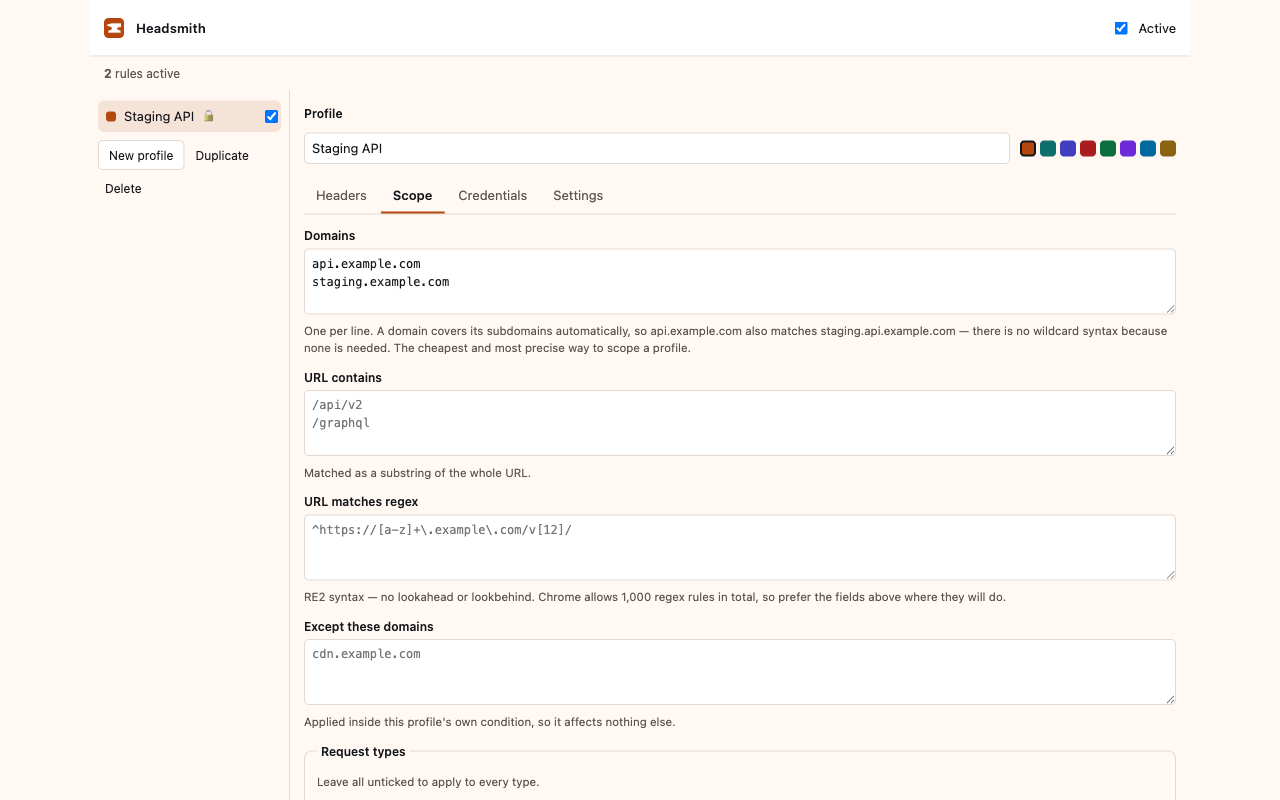
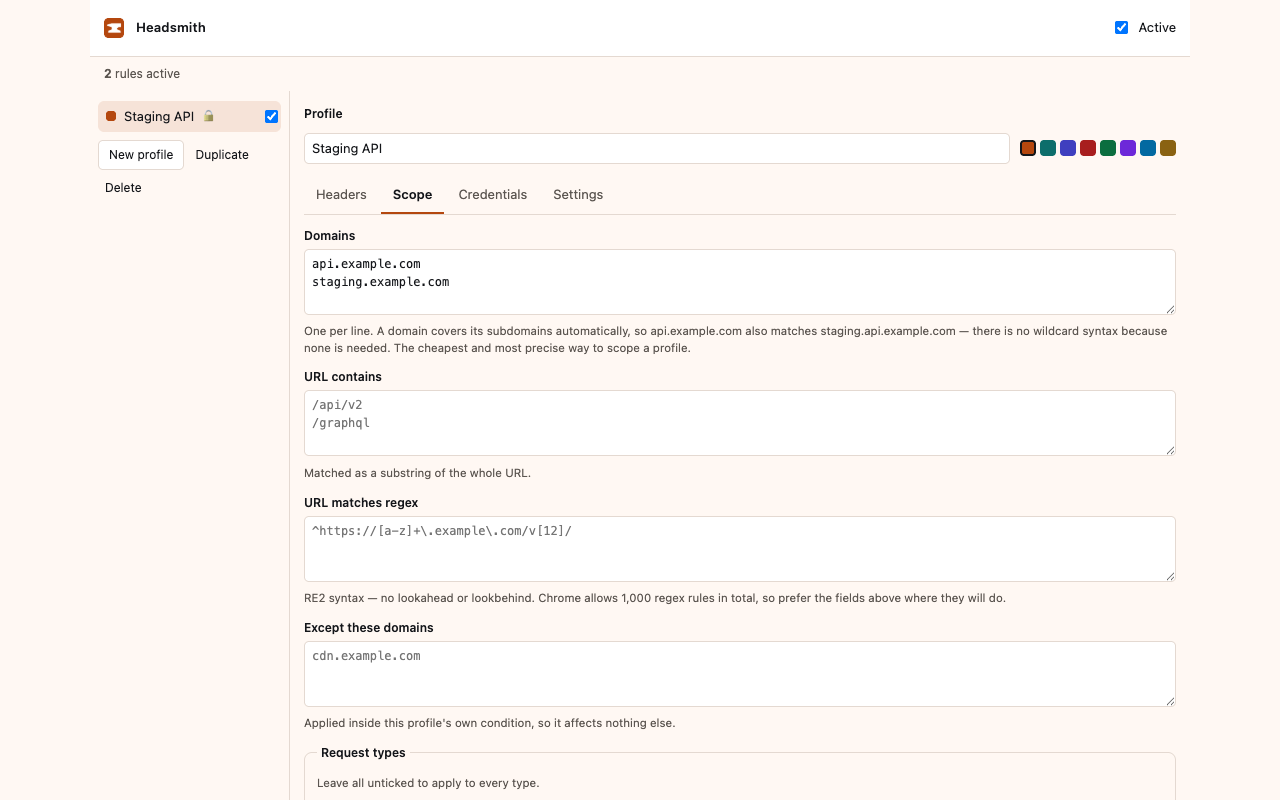
Bring the docs and screenshots up to the current permission model
The screenshots were from 1.1.0, before the site-access panel existed, and
the internal docs said nothing about the permission model at all -- CLAUDE.md
had no mention of it, and CONTRIBUTING did not explain why the e2e suite
needs a second build.

Screenshots are regenerated and one is added for Settings, since asking for
no sites at install and granting per domain is the strongest thing about this
extension and the listing should show where that lives rather than only
assert it.

They are now captured against a copy of the build with the demo hosts
already granted. Host access is requested from a user gesture, which a script
cannot supply, so a run against the real build put "waiting on your
permission" across every shot and made the extension look broken to anyone
browsing the listing. Only the manifest differs; every pixel is the real UI
in the state a user reaches by clicking Allow.

PUBLISHING gains a section on what actually distinguishes this and how to say
it -- including why the listing contrasts *approaches* rather than naming
another product. Comparative claims about named competitors invite reviewer
scrutiny, and the contrast does not need them: "asks for no sites at install"
is stronger and more checkable than "unlike X". The listing copy now leads
with the permission model, which it did not mention at all.

Also corrects a rejection-table row still advising how to argue for
<all_urls>, which is no longer requested.

diff --git a/PUBLISHING.md b/PUBLISHING.md
@@ -109,6 +109,44 @@ manifest and reports validation errors before you go further.
 - [ ] `SECURITY.md` changelog updated if permissions moved
 - [ ] The listing text below still matches what the extension does
 
+## What actually distinguishes this, and how to say it
+
+Three properties are genuinely unusual for a header extension. They are worth
+leading with, because they are the reason to pick this one and they are all
+checkable.
+
+**1. No host access at install.** Most extensions in this category request
+`<all_urls>` up front, so installing one shows *"Read and change all your data
+on all websites"* before it has done anything. Headsmith requests nothing.
+Access is asked for one domain at a time, when a profile names one, and the
+prompt says that domain. Site access is listed in the extension's own settings
+and can be withdrawn there.
+
+**2. It cannot observe traffic, structurally.** Built on
+`declarativeNetRequest` alone: rules are handed to the browser and no extension
+code runs when a request is made. The same feature built on blocking
+`webRequest` receives every request and response header on every permitted site
+and must be trusted not to act on them. This is a property of the API, not a
+promise about conduct — which is why it can be stated so flatly.
+
+**3. Releases are reproducible and attested.** The Web Store signs the `.crx`
+itself from an uploaded `.zip`, so a store signature says the bytes came from a
+developer account and nothing about where they came from. Every Headsmith
+release is byte-reproducible from source and carries a provenance attestation
+binding it to a commit. Anyone can rebuild and compare.
+
+### Say it about Headsmith, not about other extensions
+
+The listing text below describes what Headsmith does and contrasts *approaches*
+— blocking `webRequest` versus declarative rules, install-time access versus
+per-domain — without naming another product.
+
+That is deliberate. Comparative claims about named competitors invite reviewer
+scrutiny and can fall foul of the Developer Program Policies, and the contrast
+does not need them: "this one asks for no sites at install" is a stronger, more
+checkable claim than "unlike X". Anyone comparing options will draw the
+conclusion themselves, and the factual version cannot be argued with.
+
 ## Listing
 
 | Field | Value |
@@ -134,6 +172,16 @@ Extensions that modify headers using blocking webRequest do see every
 request on every site they are permitted to touch. Headsmith does not ask
 for that permission.
 
+IT ASKS FOR NO SITES WHEN YOU INSTALL IT
+
+There is no "read and change all your data on all websites" prompt, because
+at install Headsmith is granted nothing at all. When a profile names a
+domain, Chrome asks about that domain and nothing else. Every site you have
+allowed is listed in the extension's settings and can be withdrawn there.
+
+Profiles scoped by URL text or a regular expression can match any site, so
+those ask for broader access — and say so before asking.
+
 FEATURES
 • Set, append and remove request and response headers
 • Profiles you can switch between, enable individually, or pause entirely
@@ -143,6 +191,7 @@ FEATURES
   or in a passphrase-encrypted vault (AES-GCM, PBKDF2 at 600,000 iterations)
 • A credential-bearing profile must name where it applies, so a token
   cannot be attached to every request your browser makes
+• Site access granted per domain, listed and revocable at any time
 • Dark mode, import and export
 
 VERIFIABLE BUILDS
@@ -200,7 +249,7 @@ Common rejections and what fixes them:
 
 | Reason | Fix |
 | --- | --- |
-| Permissions not justified | Restate the `<all_urls>` argument in the listing itself, not only in the repo |
+| Broad host permissions flagged | Should no longer apply — nothing is requested at install. If it is raised anyway, answer that host access is optional and user-initiated, and that `activeTab` cannot work for a declarativeNetRequest extension (verified: host access is needed when the request is made; `activeTab` grants it on a gesture that happens after the navigation and is revoked by the next one) |
 | Screenshots do not show functionality | Capture the profile editor with realistic rules |
 | Single purpose unclear | Keep the description on header modification; do not lead with the security architecture |
 

diff --git a/CLAUDE.md b/CLAUDE.md
@@ -295,6 +295,54 @@ In order of how often it turns out to be the cause:
    response-header editor, because this will be the most common support
    question the project ever gets.
 
+## Host permissions
+
+**Nothing is granted at install.** `host_permissions` is empty;
+`optional_host_permissions` is `*://*/*`, requested at runtime.
+
+`src/core/origins.ts` decides what a profile needs. The rule worth remembering:
+a compiled condition ANDs `requestDomains` with any URL term, so **once a
+profile names a domain, granting that domain is sufficient however the URL
+filters are written**. The reverse does not hold -- a profile scoped only by
+URL substring or regex can match any host, and nothing narrower than
+`*://*/*` can serve it. That is the honest boundary and it is surfaced in the
+UI rather than hidden.
+
+Three things that shaped this, all measured rather than assumed:
+
+- **Narrowed host permissions work.** A build holding one origin applies
+  headers there and nowhere else.
+- **`activeTab` does not.** A build with `activeTab` and no host permissions
+  applies nothing. `declarativeNetRequest` needs host access at the moment a
+  request is made; `activeTab` grants it on a user gesture, which happens after
+  the navigation whose headers were to be changed, and is revoked by the next
+  one. The Web Store review suggests it; it is sound advice for content scripts
+  and inapplicable here.
+- **`permissions.request` refuses outside a user gesture.** That is the
+  property that makes the model worth having, and it is also why Chrome's
+  consent bubble cannot be driven by a test.
+
+The compiler does **not** withhold rules for un-granted hosts. Chrome enforces
+that itself by declining to act on them, and reimplementing the check would
+mean maintaining a second copy of Chrome's rules that could disagree with the
+first. `permissionGaps` only *reports* the gap, so the answer to "why is
+nothing happening" is on screen.
+
+### Testing around the consent bubble
+
+The tests split. Everything up to the click -- no access at install, no effect
+without access, the grant control offered, the request refusing without a
+gesture -- runs against the real build. The tests that need a rule to actually
+apply run against `dist/chrome-granted`, produced by
+`scripts/make-granted-build.mjs`, whose manifest declares localhost outright.
+CI builds it explicitly, because the e2e job downloads `dist/` rather than
+rebuilding.
+
+One consequence worth knowing: `chrome.permissions.remove` only removes
+*optional* permissions, so revocation cannot be exercised from that fixture --
+its access is required, not optional. The revoke call is the one part of the
+site-access panel with no end-to-end coverage.
+
 ## Traps hit while building this
 
 Recorded so they are not hit twice.

diff --git a/CONTRIBUTING.md b/CONTRIBUTING.md
@@ -46,6 +46,18 @@ fetches it and passes it in.
 Coverage thresholds are set per directory, not globally, so UI churn cannot
 quietly lower the bar on the compiler or the vault. `src/core` is held to 95%.
 
+### The granted-host build
+
+Host access is optional and requested from a user gesture, so a test cannot
+grant it and Chrome's consent bubble cannot be driven. `npm run test:e2e`
+therefore builds `dist/chrome-granted` as well, whose manifest declares
+localhost outright, and the tests that need a rule to actually apply use that.
+
+Everything up to the click -- no access at install, no effect without it, the
+grant control appearing, the request refusing without a gesture -- runs against
+the real build. If you add a test that needs headers to actually reach the
+network, use `withGrantedHost`.
+
 ### Rule fixtures
 
 `test/fixtures/rules/*.json` record the exact declarativeNetRequest rules the
